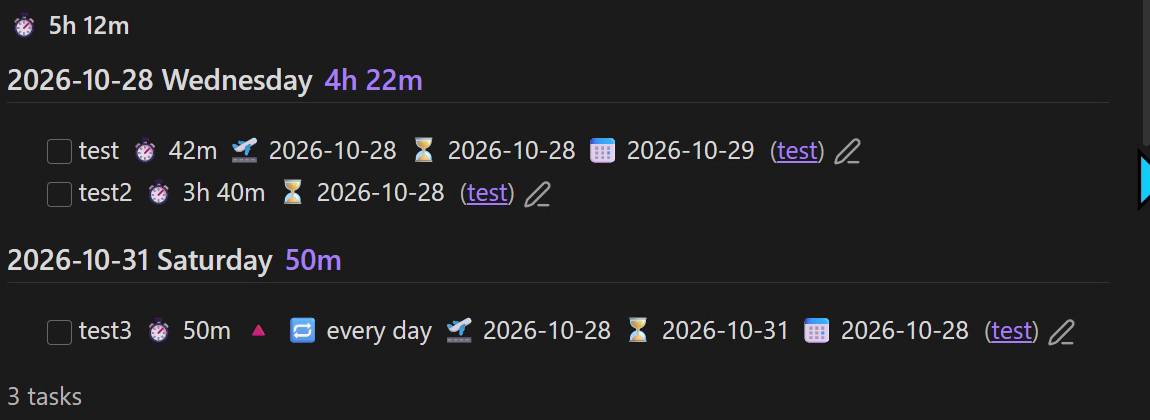
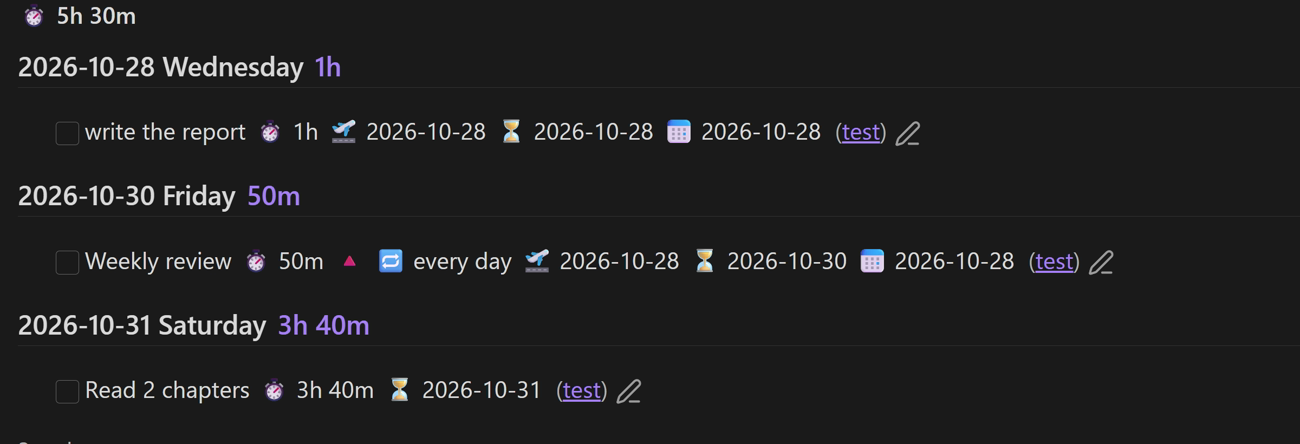
README: re-recorded GIFs and screenshots (zoomed, demo tasks, repeating task completion)
Claude-Session: https://claude.ai/code/session_01QgM8JP9ugDF4KqxheURqVB

diff --git a/README.md b/README.md
@@ -12,7 +12,7 @@ Tasks is not required, but the two work well together.
 
 **Three dates, as in Tasks.** ⏳ *scheduled* is the day you plan to work on a task, 🛫 *start* the day it becomes possible to start, 📅 *due* the deadline. Each has its own quick-entry symbol — `@` scheduled, `$` start, `!` due — and the dashboard can total by any of them (⏳ by default). If you used Task Hours before 1.4.0, nothing changes for you: `@` still writes 🛫 start, ⏳ scheduled gets `$`, and the dashboard stays on 🛫 — swap them in settings whenever you like.
 
-<img src="https://raw.githubusercontent.com/MyTaskLog/task-hours/main/docs/dashboard.png?v=1.4.0b" alt="Tasks with estimates, and the dashboard totalling them by scheduled date">
+<img src="https://raw.githubusercontent.com/MyTaskLog/task-hours/main/docs/dashboard.png?v=1.4.1" alt="Tasks with estimates, and the dashboard totalling them by scheduled date">
 
 [日本語の説明はこちら](README.ja.md)
 
@@ -30,7 +30,7 @@ becomes
 - [ ] Lunch with Sam ⏱ 2h ⏳ 2026-10-06 📅 2026-10-09
 ```
 
-<img src="https://raw.githubusercontent.com/MyTaskLog/task-hours/main/docs/quick-entry.gif?v=1.4.0b" alt="Typing + @ $ ! in a task line and picking from the suggestions; a task made in Tasks' dialog gets an estimate too" width="800">
+<img src="https://raw.githubusercontent.com/MyTaskLog/task-hours/main/docs/quick-entry.gif?v=1.4.1" alt="Typing + @ $ ! in a task line and picking from the suggestions; a task made in Tasks' dialog gets an estimate too" width="800">
 
 | Type | Means |
 |---|---|
@@ -76,7 +76,7 @@ There's also a form for adding tasks (task name, estimate, start, due), availabl
 
 Click the timer icon in the ribbon to open the dashboard in the right sidebar.
 
-<img src="https://raw.githubusercontent.com/MyTaskLog/task-hours/main/docs/dashboard.gif?v=1.4.0b" alt="Choosing a folder, switching the date, tiles and range, then rescheduling and completing tasks in the dashboard" width="900">
+<img src="https://raw.githubusercontent.com/MyTaskLog/task-hours/main/docs/dashboard.gif?v=1.4.1" alt="Choosing a folder, switching the date, tiles and range, then rescheduling and completing tasks in the dashboard" width="900">
 
 1. Choose a folder at the top. Pick **/ (entire vault)** to include every note. You can add more folders — each one shows as a chip, and × removes it. Use **+ Leave out a folder** to skip folders inside them (an archive, for example).
 2. You'll see the total hours and number of open tasks for **Carry-over · Today · Tomorrow · Next 14 days · No scheduled date**. The switch above them chooses the date they total by: **⏳ Scheduled · 🛫 Start · 📅 Due** (with 📅, *Carry-over* becomes *Overdue*).
@@ -91,7 +91,7 @@ The folders are remembered, so next time it's one click.
 - Click **⏳ scheduled**, **🛫 start** or **📅 due** to pick a new date on a large calendar (with Today / Tomorrow / Remove date buttons). The task line in the note is updated.
 - Click **⏱** to change the estimate: type a number, choose **h** or **min** (a number of 10 or more is assumed to be minutes, as with `+`), or click one of the quick picks.
 
-  <img src="https://raw.githubusercontent.com/MyTaskLog/task-hours/main/docs/estimate-editor.png?v=1.4.0" alt="The estimate editor: a number, an h / min switch, a preview and quick picks" width="600">
+  <img src="https://raw.githubusercontent.com/MyTaskLog/task-hours/main/docs/estimate-editor.png?v=1.4.1" alt="The estimate editor: a number, an h / min switch, a preview and quick picks" width="600">
 
 - Use the checkbox to complete or reopen a task.
 - Click a task name to jump to it in its note.
@@ -110,7 +110,7 @@ show estimate total
 ```
 ````
 
-<img src="https://raw.githubusercontent.com/MyTaskLog/task-hours/main/docs/query.png?v=1.4.0b" alt="Query results grouped by scheduled date, with the estimate total and a subtotal next to each heading" width="800">
+<img src="https://raw.githubusercontent.com/MyTaskLog/task-hours/main/docs/query.png?v=1.4.1" alt="Query results grouped by scheduled date, with the estimate total and a subtotal next to each heading" width="800">
 
 It searches the whole vault, like Tasks — an empty block lists every task, just as an empty `tasks` block does. The block name works in any case: `task-hours`, `Task-Hours`, `TASK-HOURS`, `taskhours`. (A space, as in `Task Hours`, isn't possible — Markdown only reads the first word as the block name.)
 
@@ -118,7 +118,7 @@ It searches the whole vault, like Tasks — an empty block lists every task, jus
 
 You don't need to remember the instructions. Inside a `task-hours` block — and inside `tasks` blocks too — start typing and the next possible words are suggested, each with a short explanation: `gr` → **group by** → **folder**, `due` → **before** → **next week**. After `folder includes`, `path includes`, `filename includes` or `root includes`, your vault's folders and files are listed and narrowed as you type. In a `tasks` block only Tasks' own instructions are offered; a `task-hours` block also offers the estimate ones (marked **Task Hours**). Turn this off with **Suggest query instructions** in settings.
 
-<img src="https://raw.githubusercontent.com/MyTaskLog/task-hours/main/docs/query-suggest.gif?v=1.4.0b" alt="Writing a task-hours query with suggestions: block name, filters, folders, group by and show estimate total" width="860">
+<img src="https://raw.githubusercontent.com/MyTaskLog/task-hours/main/docs/query-suggest.gif?v=1.4.1" alt="Writing a task-hours query with suggestions: block name, filters, folders, group by and show estimate total" width="860">
 
 Supported instructions:
 
@@ -146,7 +146,7 @@ Each task is shown like in Tasks: the description, its fields, and a link to the
 
 Everything shown can be changed right there: click ⏱ / 🛫 / 📅 / ⏳ / ➕ / ✅ / ❌ to pick a new date (or estimate), click the priority to choose another, click 🔁 to edit the recurrence rule. The ✏ pencil opens all of them at once.
 
-<img src="https://raw.githubusercontent.com/MyTaskLog/task-hours/main/docs/query-edit.gif?v=1.4.0b" alt="Changing dates, priority, recurrence and estimates in query results; totals update straight away" width="900">
+<img src="https://raw.githubusercontent.com/MyTaskLog/task-hours/main/docs/query-edit.gif?v=1.4.1" alt="Changing priority and dates in query results, and completing a repeating task — its next occurrence appears and the totals update" width="900">
  Task Hours can **add** only the estimate, ⏳ scheduled, 🛫 start and 📅 due dates; the other fields can be changed or removed when the task already has them (add them with Tasks).
 
 ### Older syntax
